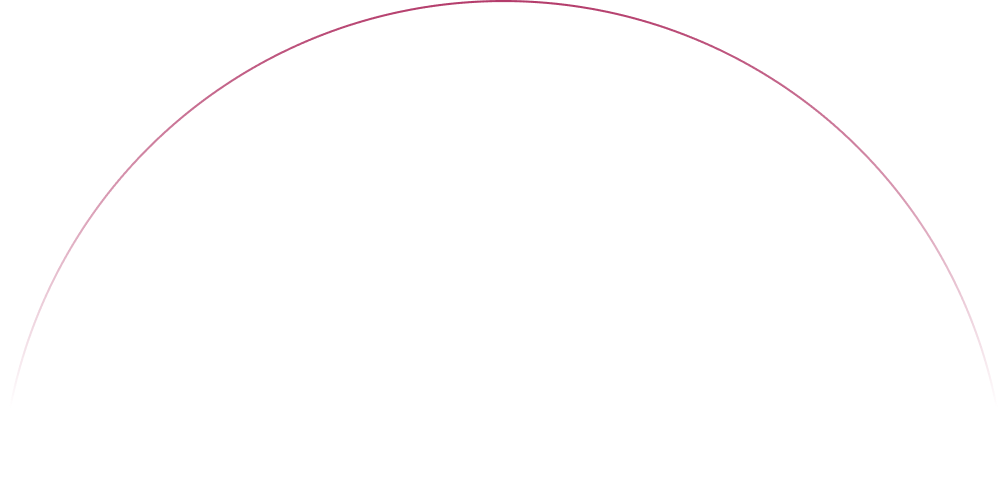
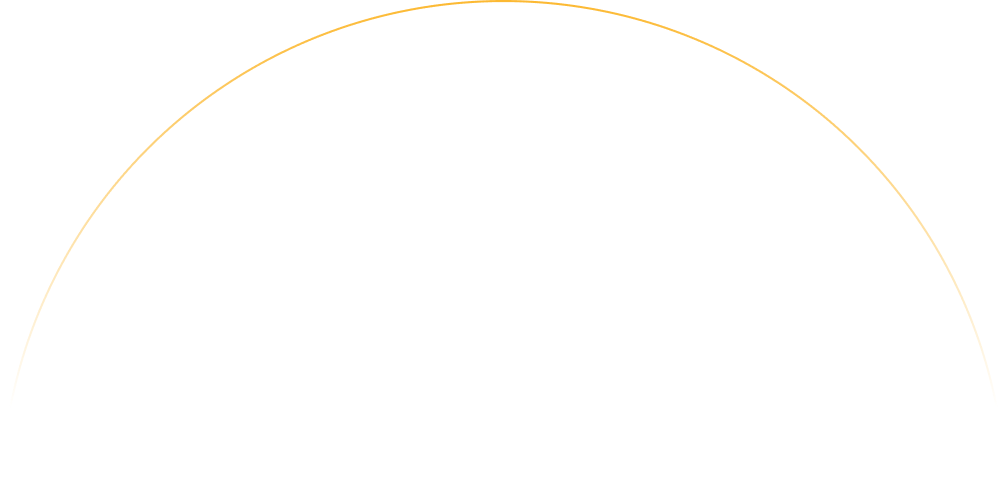
chore(insurable-Vehicles): upate style

diff --git a/components/InsurableVehicles.vue b/components/InsurableVehicles.vue
@@ -30,7 +30,7 @@ function clickHandler(idx: number) {
   <section class="mt-12 lg:mt-40">
     <div class="relative mx-auto py-11 container lg:pb-23 lg:pt-25">
       <div class="relative mb-40">
-        <div class="absolute inset-0 mx-auto aspect-1 w-1/5 rounded-full bg-[#FC5185]/25 blur-120" />
+        <div class="absolute inset-0 mx-auto aspect-1 w-1/5 rounded-full bg-[#FCB932]/35 blur-150" />
         <img class="absolute inset-0 mx-auto" src="/arc.png" alt="arc">
       </div>
 
@@ -45,7 +45,7 @@ function clickHandler(idx: number) {
       <div class="mt-5 flex flex-wrap justify-center gap-4 lg:mt-22 lg:justify-center lg:gap-5 2xl:pl-0">
         <div
           v-for="card, idx in cards" :key="idx"
-          class="text-cente [background:linear-gradient(#1F0044,#13002A,#110031)_padding-box,linear-gradient(to_right,#D6528E,#2F2EB7)_border-box] relative flex flex-none gap-4 border border-[#05031F] rounded-full px-5 py-4 hover:border-transparent lg:px-27 lg:py-8 lg:text-3xl"
+          class="text-cente [background:linear-gradient(0deg,rgba(252,185,50,0.32)3.21%,rgba(252,185,50,0.04)46.13%,rgba(252,185,50,0.24)97.93%)] relative flex flex-none gap-4 border border-[#05031F] border-transparent rounded-full px-5 py-4 hover:border-[#009EAB] lg:px-27 lg:py-8 lg:text-3xl"
           @mouseover="clickHandler(idx)"
         >
           <div class="rtl:scale-x--100">
